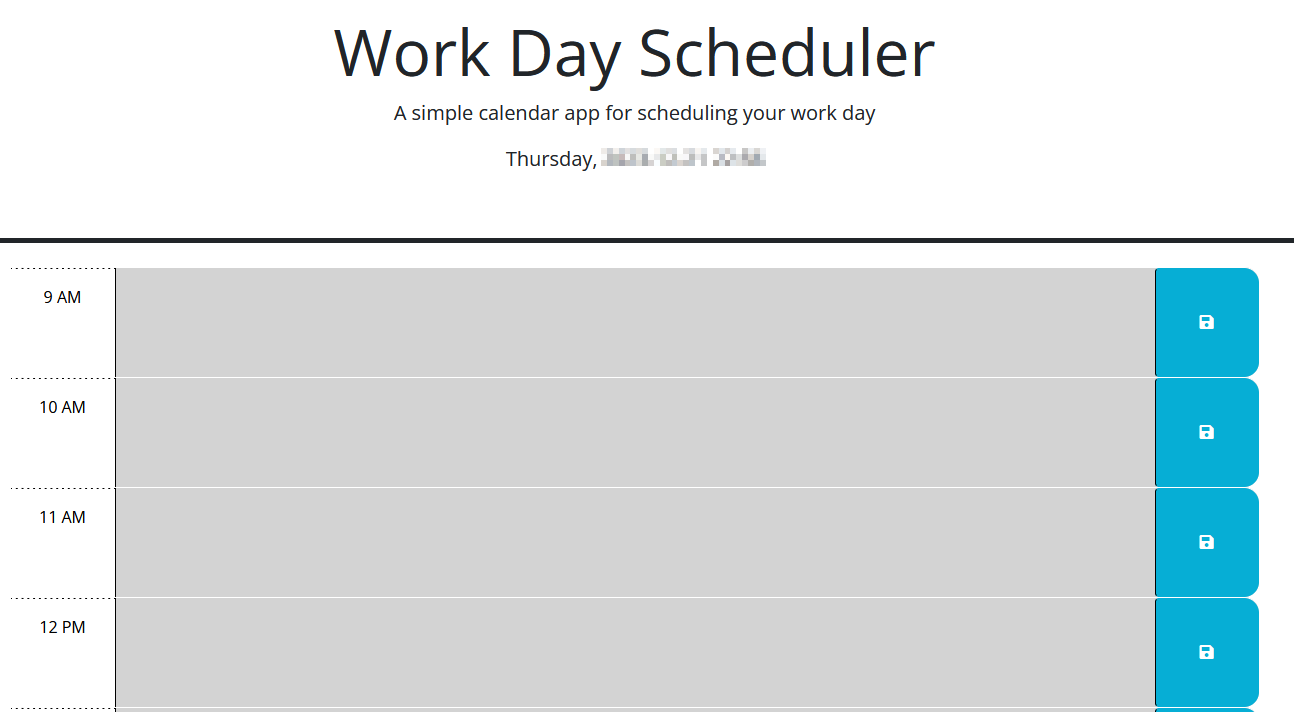
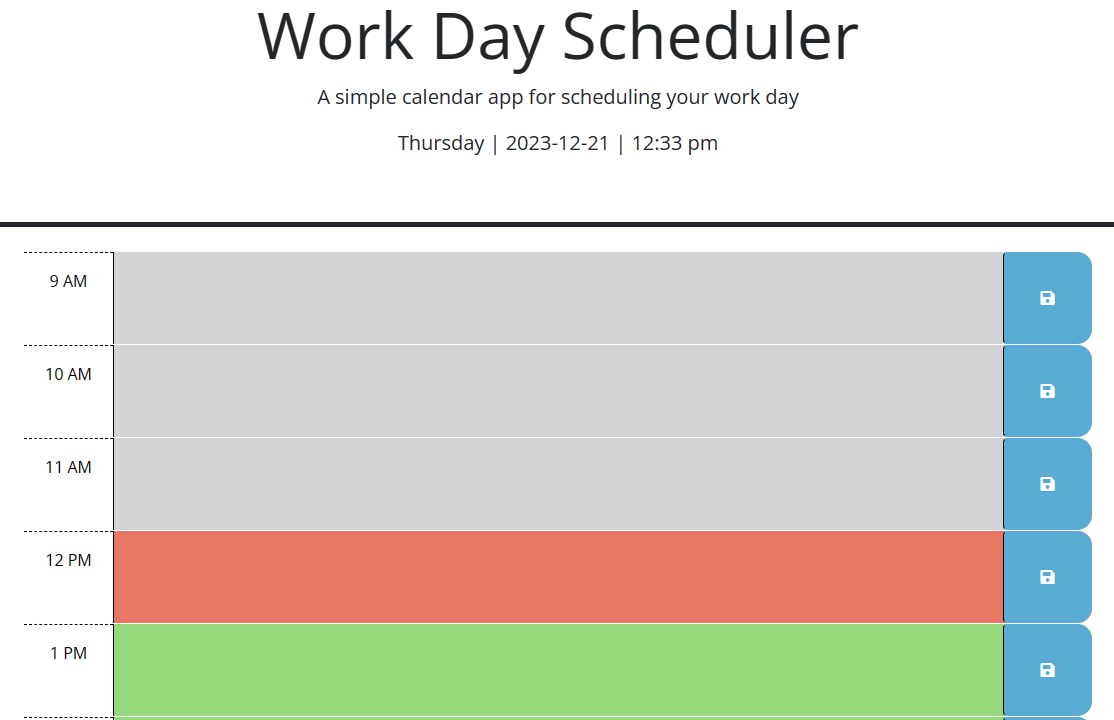
Update screenshot, fix bug in rendering code execution preventing complete redraws

diff --git a/assets/js/script.js b/assets/js/script.js
@@ -145,15 +145,12 @@ class Calendar {
 
         // Remove any existing classes for timeframe, then add the current one
         target.removeClass(['past', 'present', 'future']).addClass(item.timeframe);
-        if (delta) {
-          // Terminate the method early if set to render deltas only
-          return;
+        if (!delta) {
+          // Add formatted time to block
+          target.children('.hour').text(item.hour.formatted);
+          // Add any events if specified
+          target.children('textarea').val(item.description);
         }
-
-        // Add formatted time to block
-        target.children('.hour').text(item.hour.formatted);
-        // Add any events if specified
-        target.children('textarea').val(item.description);
       } else {
         // Propagate the container with all time blocks
         calendarEl.append(item.template);

diff --git a/README.md b/README.md
@@ -17,13 +17,16 @@ Skills leveraged in this app include:
 ## Preview
 A screenshot of the app on first time use
 
-![A screenshot of part of the app from the first time loaded, showing a partially redacted date/time stamp, and part of the event blocks underneath](./project/preview-001.png)
+![A screenshot of part of the app from the first time loaded](./project/preview-001.png)
 
 A screenshot of the app demonstrating data being held in local storage
 
 ![A screenshot of the app with a populated event, and its corresponding object reference in local storage](./project/preview-002.png)
 
 ## Usage
+This page has the following features
+- Real-time clock
+- Time-relative 
 
 ## Credits
 - Starter code (`index.html`, `style.css`, `script.js`) provided by University of Sydney and edX as part of the Online Coding Bootcamp
